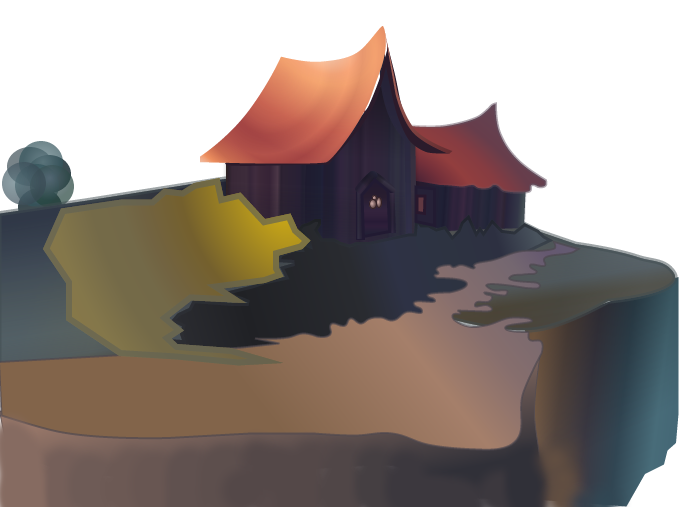
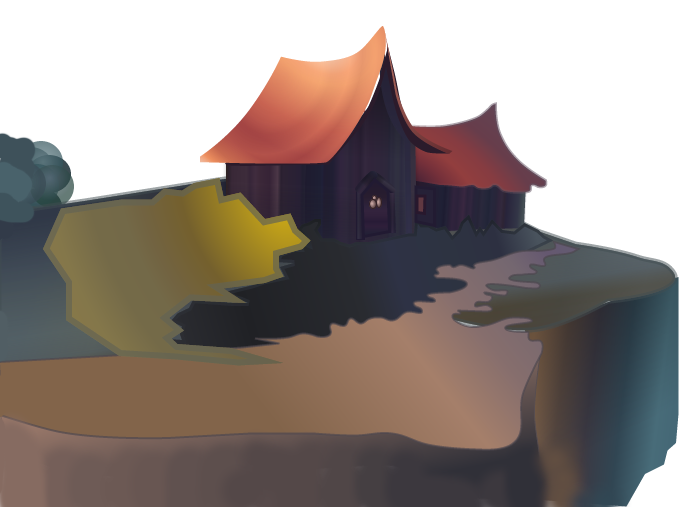
Hero: layer-04 as fixed 3D panels with a mirrored copy
- layer-04 is a plain panel fixed in world space (no follow effect) at the
  image's own size, plus a horizontally mirrored copy beside it
- Updated layer-04.png artwork

Changed region(s): [[0.0, 0.2663, 0.0603, 0.4438]]

diff --git a/src/docs/hero/hero_parallax.ts b/src/docs/hero/hero_parallax.ts
@@ -493,6 +493,30 @@ export async function heroParallax(
         ],
     });
 
+    // Layer 04 - a plain panel fixed in 3D space (no follow effect), at the image's own size
+    // and proportions, centered on the starting view axis.
+    world.addPanel({
+        id: 'layer-04',
+        type: ELEMENT_TYPES.PANEL,
+        fitMode: 'fill',
+        alphaCutoff: 0.5,
+        width: 696,
+        height: 507,
+        position: { x:  -350, y: 50, z: -1000 },
+        texture: { path: appAssetPath('img/hero/layer-04.png'), width: 696, height: 507 },
+    });
+    world.addPanel({
+        id: 'layer-04-mirror',
+        type: ELEMENT_TYPES.PANEL,
+        fitMode: 'fill',
+        alphaCutoff: 0.5,
+        width: 696,
+        height: 507,
+        mirrorTextureHorizontal: true,
+        position: { x:  -350 - 696, y: 50, z: -1000 },
+        texture: { path: appAssetPath('img/hero/layer-04.png'), width: 696, height: 507 },
+    });
+
     world.addBox({
         id: 'far-cube',
         type: ELEMENT_TYPES.BOX,
